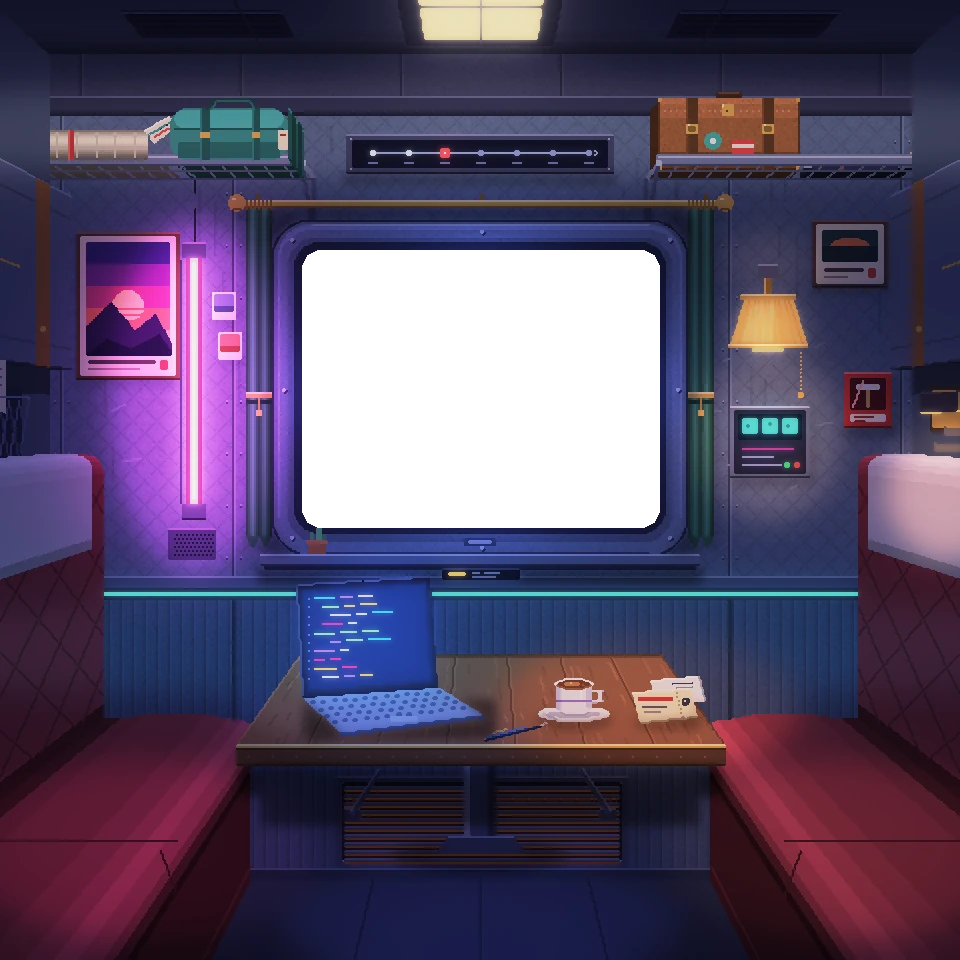
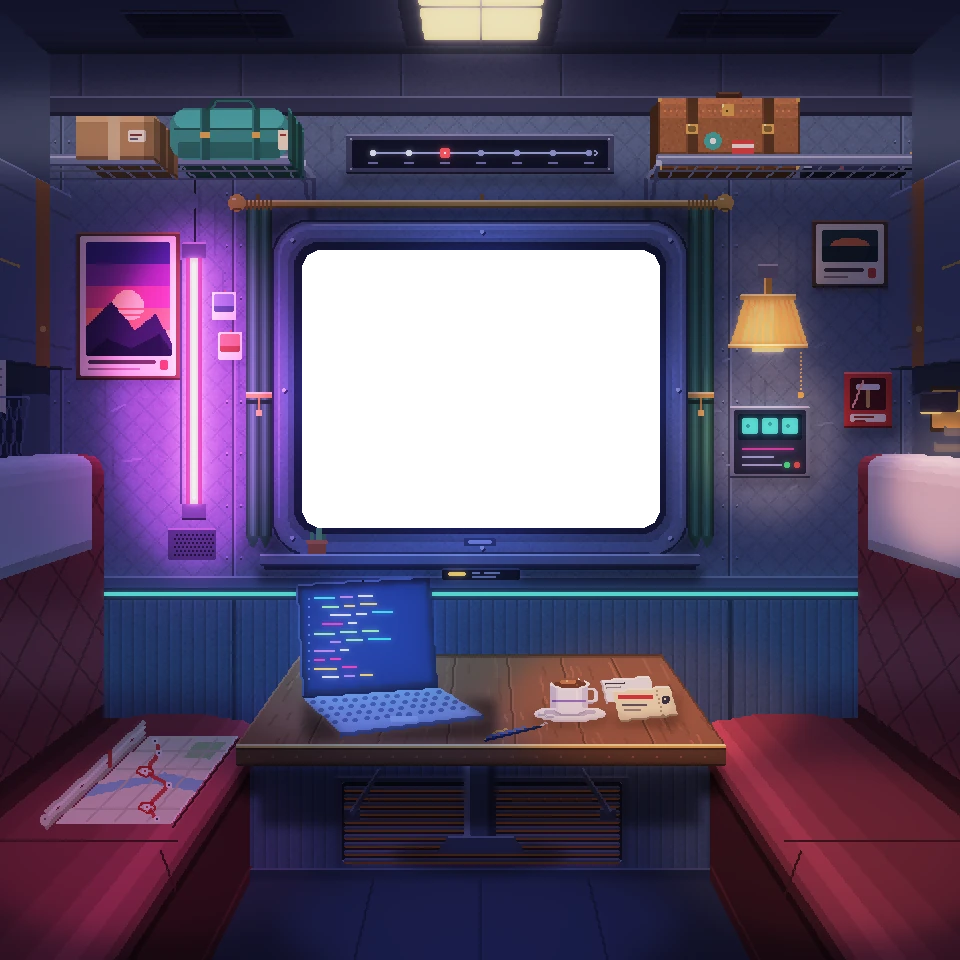
art(2.2, 2.3): the map on the bench, the ticket back on the table
The rolled map on the rack was a thick tube that did not read as a map. The
journey object is now a map thrown down on the left-hand bench by the window,
half unrolled: the open sheet lies in the cushion's plane and shows what is
printed on it — water, a park, streets, and the line in red with two stations
circled over and over — while the rest is still rolled along its far edge with
a rubber band. Its zone and light are fitted to it, and the rack has its
cardboard box back.

The ticket sat at the table's front corner and its card stuck out past the
edge, so it looked about to fall. The ticket moves in from the edge, the card
peeks out on the table side instead, and the cup moves a little left to make
room.

The script and the scroll design follow the map to the bench.

Changed region(s): [[0.0312, 0.75, 0.25, 0.875], [0.5625, 0.6875, 0.75, 0.75], [0.0312, 0.0938, 0.1875, 0.1875]]

diff --git a/src/scene/geometry.gen.ts b/src/scene/geometry.gen.ts
@@ -30,7 +30,7 @@ export const CAMERA = { x: 240, y: 209.808 };
 export const OBJECTS: Record<string, ObjectGeometry> = {
   cover: { zone: [142, 116, 338, 272], light: { x: 240, y: 194, rx: 108, ry: 84 } },
   projects: { zone: [137, 279, 252, 376], light: { x: 195, y: 328, rx: 62, ry: 52 }, box: { x: 148, y: 288, w: 94, h: 81 }, sprite: '/assets/obj-projects.webp' },
-  about: { zone: [306, 336, 358, 370], light: { x: 332, y: 353, rx: 30, ry: 20 }, box: { x: 316, y: 338, w: 37, h: 24 }, sprite: '/assets/obj-about.webp' },
+  about: { zone: [296, 335, 348, 369], light: { x: 322, y: 352, rx: 30, ry: 20 }, box: { x: 300, y: 338, w: 39, h: 23 }, sprite: '/assets/obj-about.webp' },
   stack: { zone: [318.7565, 36.95, 409.9482, 92.9085], light: { x: 364.3523, y: 67.0018, rx: 49.7409, ry: 29.0155 }, box: { x: 325, y: 46, w: 75, h: 44 }, sprite: '/assets/obj-stack.webp', front: { x: 322, y: 77, w: 85, h: 17, sprite: '/assets/obj-stack-front.webp' } },
-  journey: { zone: [1.2903, 50.8747, 93.7634, 89.5843], light: { x: 48.6022, y: 72.38, rx: 47.3118, ry: 17.2043 }, box: { x: 10, y: 58, w: 78, h: 22 }, sprite: '/assets/obj-journey.webp' },
+  journey: { zone: [14, 354, 124, 420], light: { x: 69, y: 387, rx: 52, ry: 30 }, box: { x: 20, y: 360, w: 99, h: 55 }, sprite: '/assets/obj-journey.webp' },
 };

diff --git a/src/scene/geometry.gen.css b/src/scene/geometry.gen.css
@@ -9,7 +9,7 @@
   transform-origin: 50% 43.71%;
 }
 .steam {
-  left: 59.4042%; top: 69.8542%;
+  left: 58.9292%; top: 69.775%;
 }
 .cur {
   left: 40.8333%; top: 69.1667%;

diff --git a/tools/art/room.py b/tools/art/room.py
@@ -38,11 +38,11 @@ AMBER = (255, 206, 110)
 # object moves its focus target with it.
 OBJECTS = {
     'projects': dict(at=(148, 288), zone=(-11, -9, 104, 88), light=(47, 40, 62, 52)),
-    'about': dict(at=(316, 344), zone=(-10, -8, 42, 26), light=(16, 9, 30, 20)),
+    'about': dict(at=(306, 343), zone=(-10, -8, 42, 26), light=(16, 9, 30, 20)),
     'stack': dict(at=(326, 52), zone=(-10, -9, 78, 45), light=(34, 20, 48, 28), on_rack=1),
-    # the rolled map lying on the left rack; the line display on the wall is
-    # the railway's, and only a decoy
-    'journey': dict(at=(26, 72), zone=(-8, -10, 78, 26), light=(36, 10, 44, 16), on_rack=-1),
+    # the map, half unrolled on the left-hand bench; the line display on the
+    # wall is the railway's, and only a decoy
+    'journey': dict(at=(20, 360), zone=(-6, -6, 104, 60), light=(49, 27, 52, 30)),
 }
 
 # The window opening (x y w h) and its corner radius. The page lays .win over it:
@@ -103,7 +103,7 @@ def P(X, Y, Z):
 
 # The cup and saucer were drawn too large for the laptop beside them: they are
 # drawn at COFFEE_SCALE about the middle of the saucer's foot.
-COFFEE_AT = (287, 357)
+COFFEE_AT = (281, 356)
 COFFEE_SCALE = 0.62
 
 # Small animated things the page lays over the art, each x y relative to what
@@ -497,10 +497,10 @@ def rack(g, rnd, over_rack=True):
     # It is also flattened: bags laid on a rack are lower than they are wide.
     D = WALL_DIST
     lug = g.flatten(LUGGAGE_FLAT, 92).at(0, -3).depth(LUGGAGE_Z[-1])
-    rolled = place(g.flatten(LUGGAGE_FLAT, 92).depth(LUGGAGE_Z[-1]), 'journey', (26, 75))
+    bx = lug.at(24, 0)
     um = g.flatten(LUGGAGE_FLAT, 92).at(2, -3).depth(LUGGAGE_Z[1])
     # x0, x1, height as written, colour, silhouette tag
-    pieces = ((26, 90, 14, (226, 218, 196), 'journey'), (96, 151, 24, (60, 140, 138), None),
+    pieces = ((52, 88, 20, (176, 138, 98), None), (96, 151, 24, (60, 140, 138), None),
               (326, 394, 34, (150, 96, 62), 'stack'), (400, 448, 4, (44, 50, 84), None))
     for x0, x1, h, c, tag in pieces:
         xa, xb = (x0 - 240) / WALL_SCALE, (x1 - 240) / WALL_SCALE
@@ -514,8 +514,6 @@ def rack(g, rnd, over_rack=True):
     # to the wall: its body colour in shade, a lit top edge, and a band or two
     # carried round from the front
     for x0, x1, h, c, tag in pieces:
-        if tag == 'journey':
-            continue  # a roll ends in its spiral and its open edge, not a flat side
         xs = (x1 if x1 < 240 else x0)
         zl = LUGGAGE_Z[-1 if x1 < 240 else 1]
         X, top = (xs - 240) / WALL_SCALE, RACK_Y + h * LUGGAGE_FLAT / WALL_SCALE
@@ -527,27 +525,15 @@ def rack(g, rnd, over_rack=True):
             for f in (0.3, 0.7):
                 z = zl + (D - zl) * f
                 quad(t, [(X, RACK_Y, z), (X, top, z), (X, top, z + 0.025), (X, RACK_Y, z + 0.025)], mul(c, 0.42))
-    # the rolled map: a paper roll lying along the rack, a rubber band round
-    # it, its spiral at the near end and the free edge curling open at the
-    # far end to show the map printed inside
-    shades = [0.62, 0.78, 0.9, 1.0, 1.06, 1.08, 1.04, 0.96, 0.88, 0.78, 0.68, 0.58, 0.5, 0.44]
-    paper = (226, 218, 196)
-    for r, k in enumerate(shades):
-        rolled.rect(30, 78 + r, 56, 1, mul(paper, k))
-    for x in range(34, 84, 9):
-        rolled.rect(x, 79, 1, 12, mul(paper, 0.9))
-    rolled.ellipse(26, 78, 8, 14, mul(paper, 0.82))
-    rolled.ellipse(27, 80, 6, 10, mul(paper, 0.95))
-    rolled.ellipse(29, 83, 2, 4, (120, 110, 96))
-    rolled.rect(48, 78, 3, 14, (190, 60, 62))
-    rolled.rect(48, 78, 1, 14, (230, 110, 104))
-    # the free edge, curling up and open
-    rolled.poly([(84, 78), (95, 72), (98, 76), (88, 84)], mul(paper, 1.04))
-    rolled.line([(86, 80), (95, 74)], (70, 150, 160))
-    rolled.line([(88, 81), (96, 76)], (210, 80, 84))
-    rolled.px(91, 77, (40, 40, 60))
-    rolled.px(94, 75, (40, 40, 60))
-    rolled.line([(84, 78), (95, 72)], (255, 252, 240))
+    # cardboard box
+    bx.rect(28, 72, 36, 20, (176, 138, 98))
+    bx.rect(28, 72, 36, 2, (210, 174, 130))
+    bx.rect(28, 90, 36, 2, (120, 90, 66))
+    bx.rect(43, 72, 6, 20, (206, 186, 150))
+    bx.rect(52, 78, 9, 6, (236, 230, 214))
+    bx.rect(53, 80, 6, 1, (120, 60, 60))
+    bx.rect(53, 82, 4, 1, (90, 90, 110))
+    bx.shade(60, 72, 4, 20, 0.8)
     # holdall
     c = (60, 140, 138)
     lug.rrect(96, 68, 55, 24, 7, c)
@@ -991,6 +977,47 @@ BACK_ROLL = [
 BACK_ROLL_SHADES = [0.9, 1.04, 1.22, 1.38, 1.26]
 
 
+def journey_map(g):
+    """The journey object: a paper map thrown down on the left-hand bench by
+    the window, half unrolled. The sheet lies flat on the cushion and shows
+    what is printed on it; the rest is still rolled up along its far side.
+    Drawn in compartment coordinates, so it lies in the cushion's plane."""
+    o = g.at(0, 0, 'journey')
+    y = SEAT_H + 0.012
+    q = lambda X, Z, dy=0.0: ri(P(X, y + dy, Z))
+    xa, xb, za, zb = -0.86, -0.63, 1.86, 1.46  # the open sheet, back to front
+    paper, ink = (232, 224, 200), (60, 70, 96)
+    o.poly([q(xa, za), q(xb, za), q(xb, zb), q(xa, zb)], paper)
+    o.line([q(xb, za), q(xb, zb)], (250, 246, 230))
+    # what is printed: water, a park, streets, and the line with its stations
+    span = lambda u, v: (xa + (xb - xa) * u, za + (zb - za) * v)
+    o.poly([q(*span(0.0, 0.62)), q(*span(0.55, 0.48)), q(*span(1.0, 0.56)), q(*span(1.0, 0.68)), q(*span(0.5, 0.6)), q(*span(0.0, 0.74))], (150, 190, 214))
+    o.poly([q(*span(0.6, 0.08)), q(*span(0.92, 0.1)), q(*span(0.88, 0.3)), q(*span(0.62, 0.28))], (168, 204, 150))
+    for u in (0.25, 0.5, 0.78):
+        o.line([q(*span(u, 0.02)), q(*span(u, 0.98))], (206, 198, 176))
+    for v in (0.2, 0.42, 0.86):
+        o.line([q(*span(0.02, v)), q(*span(0.98, v))], (206, 198, 176))
+    route = [span(0.12, 0.06), span(0.3, 0.22), span(0.34, 0.45), span(0.7, 0.62), span(0.66, 0.84), span(0.86, 0.96)]
+    o.line([q(*r) for r in route], (210, 66, 70), width=2)
+    for i, r in enumerate(route):
+        sx, sy = q(*r)
+        o.rect(sx - 1, sy - 1, 3, 3, (250, 246, 230))
+        o.px(sx, sy, ink if i not in (2, 4) else (210, 66, 70))
+    # circled stations, as the script says: circled more than once
+    for r in (route[2], route[4]):
+        sx, sy = q(*r)
+        o.line([(sx - 3, sy - 2), (sx + 3, sy - 2), (sx + 4, sy + 1), (sx, sy + 3), (sx - 4, sy + 1), (sx - 3, sy - 2)], (200, 40, 50))
+    # the rolled part, along the sheet's far edge, with a rubber band
+    for dy, c in ((0.0, (170, 160, 140)), (0.012, (214, 206, 184)), (0.024, (240, 234, 214)), (0.034, (206, 198, 176))):
+        o.line([q(xa - 0.012, za, dy), q(xa - 0.012, zb - 0.02, dy)], c, width=2)
+    sx, sy = q(xa - 0.012, zb - 0.02, 0.018)
+    o.ellipse(sx - 2, sy - 3, 5, 6, (214, 206, 184))
+    o.px(sx, sy - 1, (120, 110, 96))
+    o.line([q(xa - 0.012, 1.7, 0.0), q(xa - 0.012, 1.7, 0.036)], (190, 60, 62), width=2)
+    # a soft shadow where the sheet meets the cushion along its near edge
+    g.line([q(xb + 0.004, za, -0.006), q(xb + 0.004, zb, -0.006)], mul(SEAT, 0.5))
+
+
 def bench(g, s):
     """A bench along a side wall, s = -1 on the left and +1 on the right, from
     the window wall to beyond the edge of the scene: a base, a cushion with a
@@ -1202,12 +1229,12 @@ def table(g, rnd):
     o = place(g, 'about', (316, 344))
     o.shadow(318, 349, 32, 15, 0.6)
     # the business card tucked behind it, one corner showing
-    C_ = [(325, 340), (349, 338), (352, 350), (328, 352)]
+    C_ = [(310, 341), (334, 339), (337, 350), (313, 352)]
     o.poly(C_, (236, 236, 242))
     o.line([C_[0], C_[1]], (255, 255, 255))
-    o.line([C_[1], C_[2]], (170, 170, 184))
-    o.fline([(336, 341.6), (346, 340.8)], (60, 60, 80))
-    o.fline([(338, 343.6), (346, 343.0)], (140, 140, 160))
+    o.line([C_[0], C_[3]], (190, 190, 204))
+    o.fline([(312.5, 342.6), (322, 341.9)], (60, 60, 80))
+    o.fline([(313, 344.6), (320, 344.1)], (140, 140, 160))
     T = [(316, 346), (344, 344), (348, 358), (320, 361)]
     o.poly(T, (240, 228, 198))
     o.line([T[0], T[1]], (255, 250, 232))
@@ -1409,6 +1436,7 @@ def build_room(seed=21, over_rack=True):
     side_wall(g, 1)
     bench(g, -1)
     bench(g, 1)
+    journey_map(g)
     table(g, rng('table'))
     # Overall lighting: the ceiling strip washing the walls, cold light from outside
     g.light(-120, 40, 720, 50, (255, 214, 160), 0.26)

diff --git a/docs/13-art-review.md b/docs/13-art-review.md
@@ -846,43 +846,43 @@ Updated in the same commit as each step. `review` means built and waiting
 for the Chrome check; `partial` means started ahead of its turn while fixing
 something else.
 
-| Stage | Step | Status  | Notes                                                                                                                                                            |
-| ----- | ---- | ------- | ---------------------------------------------------------------------------------------------------------------------------------------------------------------- |
-| 0     | 0.1  | done    |                                                                                                                                                                  |
-| 0     | 0.2  | done    |                                                                                                                                                                  |
-| 0     | 0.3  | done    |                                                                                                                                                                  |
-| 0     | 0.4  | done    |                                                                                                                                                                  |
-| 0     | 0.5  | done    |                                                                                                                                                                  |
-| 0     | 0.6  | done    |                                                                                                                                                                  |
-| 0     | 0.7  | skipped | decided against at the stage 0 gate                                                                                                                              |
-| 1     | 1.0  | done    |                                                                                                                                                                  |
-| 1     | 1.1  | done    | block-in, plus side walls as sleeper partitions and their baked vignette                                                                                         |
-| 1     | 1.2  | done    | benches as swept cross-sections with soft edges                                                                                                                  |
-| 1     | 1.3  | done    | side-wall fittings in the strips the scene shows: reading lamp with a lit hood, net pocket with a timetable; the rest of each side wall is behind the foreground |
-| 1     | 1.4  | done    | two racks, luggage standing on them with sides; the briefcase lifts whole behind the rail                                                                        |
-| 1     | 1.5  | done    | ceiling cove at the wall, vents within the strip of ceiling in view, light on the ceiling                                                                        |
-| 1     | 1.6  | done    | the table hinged to the wall: struts under it to plates on the wall, and the wall under it in shadow                                                             |
-| 2     | 2.1  | review  | cup and saucer drawn at 0.62 about the saucer's foot; pen lengthened to about 14 cm; steam and cursor positions generated                                        |
-| 2     | 2.2  | review  | journey moved to a rolled map on the left rack (box and small roll removed); the line display is a decoy with no hotspot                                         |
-| 2     | 2.3  | review  | business card behind the ticket; reserved: notebook at the table's front-left corner, hobby object in place of the holdall                                       |
-| 3     | 3.1  | pending |                                                                                                                                                                  |
-| 3     | 3.2  | pending |                                                                                                                                                                  |
-| 3     | 3.3  | pending |                                                                                                                                                                  |
-| 3     | 3.4  | pending |                                                                                                                                                                  |
-| 3     | 3.5  | pending |                                                                                                                                                                  |
-| 3     | 3.6  | pending |                                                                                                                                                                  |
-| 4     | 4.1  | pending |                                                                                                                                                                  |
-| 4     | 4.2  | pending |                                                                                                                                                                  |
-| 4     | 4.3  | pending |                                                                                                                                                                  |
-| 4     | 4.4  | pending |                                                                                                                                                                  |
-| 5     | 5.1  | pending |                                                                                                                                                                  |
-| 5     | 5.2  | pending |                                                                                                                                                                  |
-| 5     | 5.3  | pending |                                                                                                                                                                  |
-| 5     | 5.4  | pending |                                                                                                                                                                  |
-| 5     | 5.5  | pending |                                                                                                                                                                  |
-| 5     | 5.6  | pending |                                                                                                                                                                  |
-| 6     | 6    | pending |                                                                                                                                                                  |
-| 7     | 7    | pending |                                                                                                                                                                  |
+| Stage | Step | Status  | Notes                                                                                                                                                                                    |
+| ----- | ---- | ------- | ---------------------------------------------------------------------------------------------------------------------------------------------------------------------------------------- |
+| 0     | 0.1  | done    |                                                                                                                                                                                          |
+| 0     | 0.2  | done    |                                                                                                                                                                                          |
+| 0     | 0.3  | done    |                                                                                                                                                                                          |
+| 0     | 0.4  | done    |                                                                                                                                                                                          |
+| 0     | 0.5  | done    |                                                                                                                                                                                          |
+| 0     | 0.6  | done    |                                                                                                                                                                                          |
+| 0     | 0.7  | skipped | decided against at the stage 0 gate                                                                                                                                                      |
+| 1     | 1.0  | done    |                                                                                                                                                                                          |
+| 1     | 1.1  | done    | block-in, plus side walls as sleeper partitions and their baked vignette                                                                                                                 |
+| 1     | 1.2  | done    | benches as swept cross-sections with soft edges                                                                                                                                          |
+| 1     | 1.3  | done    | side-wall fittings in the strips the scene shows: reading lamp with a lit hood, net pocket with a timetable; the rest of each side wall is behind the foreground                         |
+| 1     | 1.4  | done    | two racks, luggage standing on them with sides; the briefcase lifts whole behind the rail                                                                                                |
+| 1     | 1.5  | done    | ceiling cove at the wall, vents within the strip of ceiling in view, light on the ceiling                                                                                                |
+| 1     | 1.6  | done    | the table hinged to the wall: struts under it to plates on the wall, and the wall under it in shadow                                                                                     |
+| 2     | 2.1  | review  | cup and saucer drawn at 0.62 about the saucer's foot; pen lengthened to about 14 cm; steam and cursor positions generated                                                                |
+| 2     | 2.2  | review  | journey is a map thrown half unrolled on the left bench, its print readable, circled stations; the line display is a decoy with no hotspot; the rack keeps its box                       |
+| 2     | 2.3  | review  | business card behind the ticket, peeking out on the table side; ticket moved in from the edge; reserved: notebook at the table's front-left corner, hobby object in place of the holdall |
+| 3     | 3.1  | pending |                                                                                                                                                                                          |
+| 3     | 3.2  | pending |                                                                                                                                                                                          |
+| 3     | 3.3  | pending |                                                                                                                                                                                          |
+| 3     | 3.4  | pending |                                                                                                                                                                                          |
+| 3     | 3.5  | pending |                                                                                                                                                                                          |
+| 3     | 3.6  | pending |                                                                                                                                                                                          |
+| 4     | 4.1  | pending |                                                                                                                                                                                          |
+| 4     | 4.2  | pending |                                                                                                                                                                                          |
+| 4     | 4.3  | pending |                                                                                                                                                                                          |
+| 4     | 4.4  | pending |                                                                                                                                                                                          |
+| 5     | 5.1  | pending |                                                                                                                                                                                          |
+| 5     | 5.2  | pending |                                                                                                                                                                                          |
+| 5     | 5.3  | pending |                                                                                                                                                                                          |
+| 5     | 5.4  | pending |                                                                                                                                                                                          |
+| 5     | 5.5  | pending |                                                                                                                                                                                          |
+| 5     | 5.6  | pending |                                                                                                                                                                                          |
+| 6     | 6    | pending |                                                                                                                                                                                          |
+| 7     | 7    | pending |                                                                                                                                                                                          |
 
 ### Where things stand
 

diff --git a/docs/10-scroll-narrative.md b/docs/10-scroll-narrative.md
@@ -155,8 +155,8 @@ Hotspot                aperture (scene units)       becomes
 ─────────────────────────────────────────────────────────────────
 车票  on the table      the ticket, and the card     the About panel
                        behind it
-线路图 rolled, in the    the sheet as it unrolls      the Journey panel
-      rack
+线路图 half unrolled,   the sheet as it unrolls      the Journey panel
+      on the bench
 公文包 on the rack       the open lid's interior      the Stack panel
 电脑  on the table      the screen                   the Projects panel
 门                     the lit doorway              the chat

diff --git a/docs/12-script.md b/docs/12-script.md
@@ -108,7 +108,8 @@ a professional's relief at being handed the answer.
 
 ## Scene 4 — 卷起来的线路图 (journey)
 
-**Camera:** carry, out of the luggage rack. **Scroll:** unrolls it. Stations
+**Camera:** carry, up off the left-hand bench, where it lies half unrolled.
+**Scroll:** unrolls it the rest of the way. Stations
 appear in order as it opens; each is `[经历]`.
 
 ```
